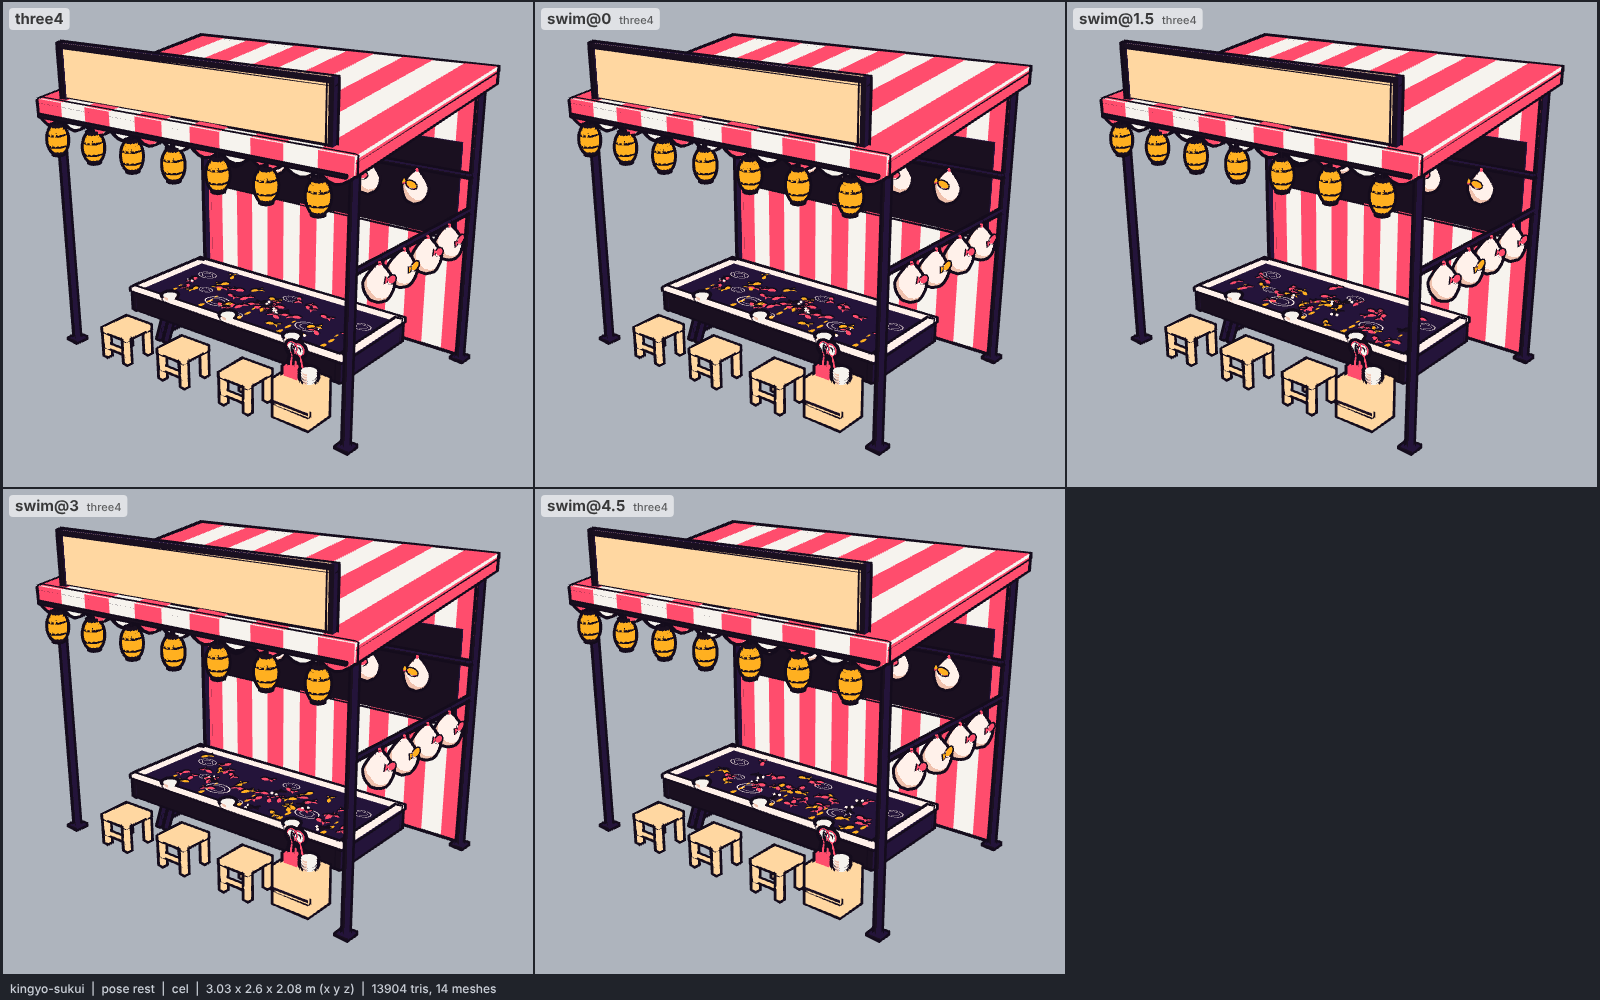
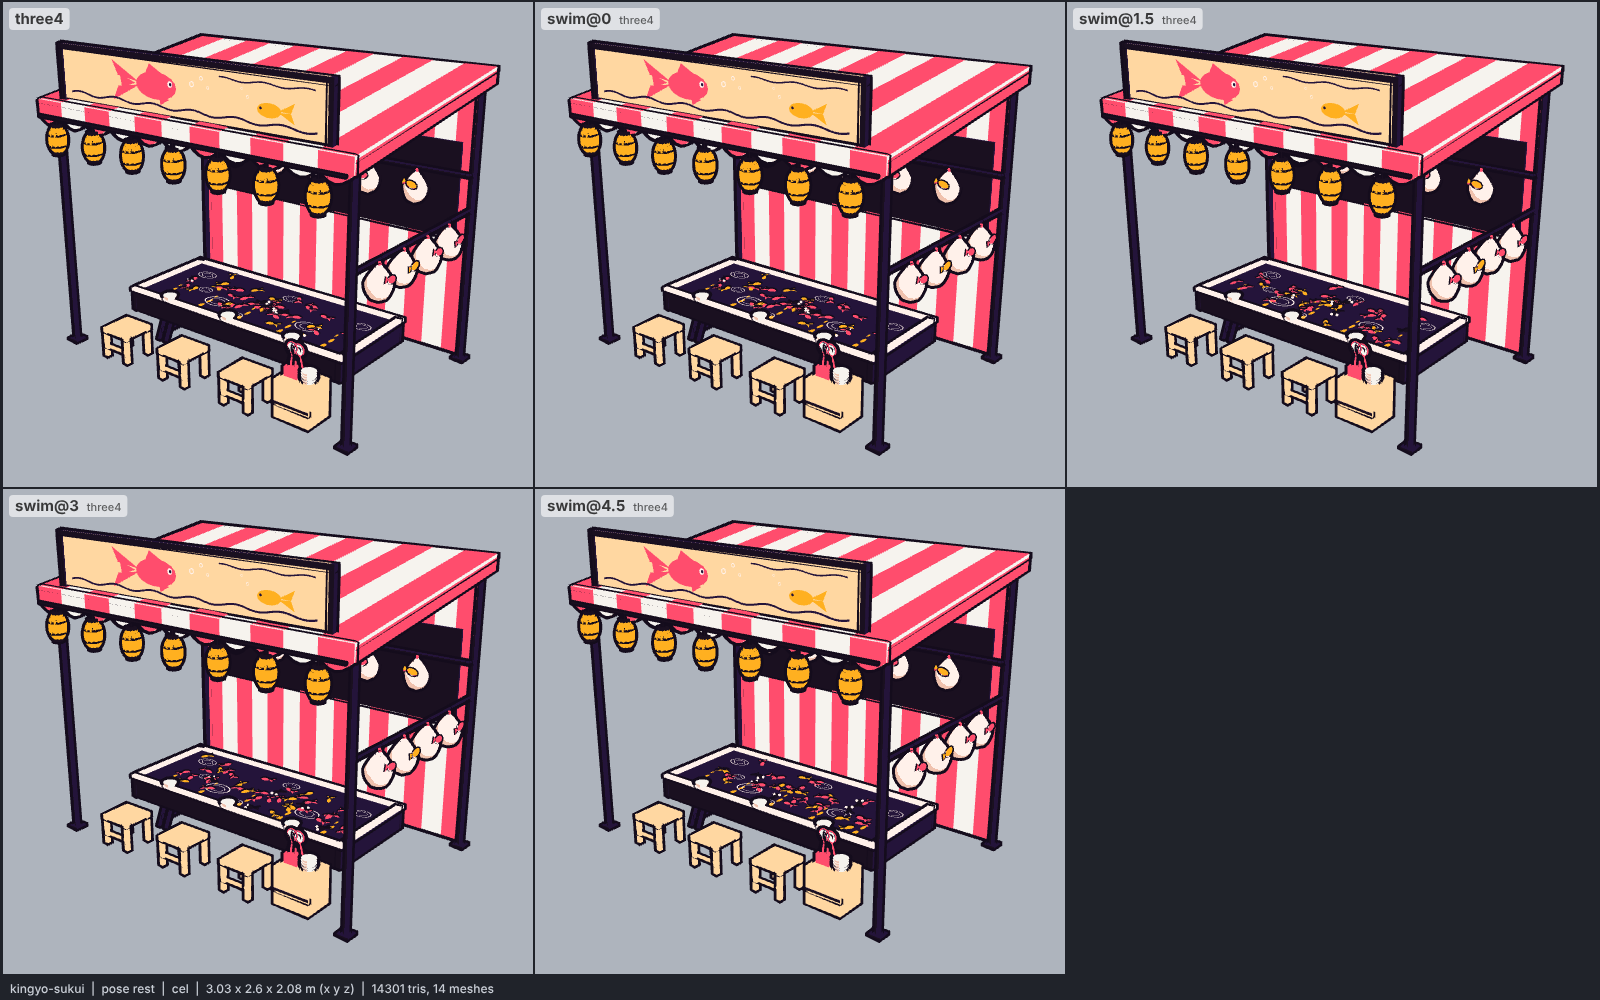
models: kingyo-sukui, paint the top board with a goldfish
A big red goldfish, a small amber one, indigo wave strokes and pale
bubbles as flat decals merged into existing meshes (14 meshes, 14.3k
triangles at defaults). Renders updated.

Claude-Session: https://claude.ai/code/session_01RarBCdt4E1fNHHaUKaW5GL

diff --git a/models/kingyo-sukui.js b/models/kingyo-sukui.js
@@ -10,7 +10,9 @@
 //   FRAME    four 6-sided steel pipes, the back pair taller, top beams, sloped side beams, trestles under the pool.
 //   CANOPY   one inked white slab sloping forward, red stripe decals 3 mm off its faces (front to back), a scalloped
 //            valance on the front lip and red side drops. The slab's hull draws the outline, so stripe seams never ink.
-//   BOARD    a blank wooden board standing on the front beam above the canopy lip (no lettering, by design).
+//   BOARD    a wooden board standing on the front beam above the canopy lip, painted with flat decals merged into
+//            existing meshes: a big red goldfish, a small amber one, indigo wave strokes and pale bubbles. No lettering
+//            (skill rule: no logos, badges or lettering); the fish carries the trade at hero size.
 //   LANTERNS seven lit chochin on a cord under the valance: practical paper at threshold -1 (one flat glow tone, the
 //            night festival), black caps, two dark rib rings.
 //   POOL     a long, shallow tub on trestles, low so customers reach it from the stools: indigo walls (festival has no
@@ -34,14 +36,14 @@
 //   top); fish is the pool's goldfish count, 4..60 (every 8th black, every 3rd amber, the rest red).
 // Clips: swim (6 s): each fish runs its own closed Lissajous loop round the pool with integer frequencies and a periodic
 //   time warp, so it darts and coasts, its tail beating; the bags sway on their ties. t = 6 equals t = 0 exactly.
-// Budget: 13.9k triangles at the defaults (fish 60: 15.8k), 14 meshes.
+// Budget: 14.3k triangles at the defaults (fish 60: 16.2k), 14 meshes.
 // Hero note: the lab's hero looks up from ~0.45 m, level with the pool's rim, so the water is edge-on there; the pool's
 //   fish read from three4/top and any camera above ~1 m. The bags carry the goldfish to the hero.
 // Colours (festival), base / shade:
 //   canopy, curtain, bowls, poi paper    sclera #f6f3ee / skin #f0c2ae
 //   stripes, side drops, poi, ties       accent #ff4d6d / sky #24143a
 //   pipes, trestles, pool, bag board     sky #24143a / hair #1a1020 (above ink)
-//   sign board, stools, crate            moon #ffd7a1 / skin #f0c2ae
+//   board, stools, crate                  moon #ffd7a1 / skin #f0c2ae
 //   lanterns (lit)                       practical #ffb020 flat
 //   caps, cord, ribs, black fish         hair #1a1020 flat
 //   rim, water bags                      line #fff1ea / skin #f0c2ae
@@ -141,6 +143,7 @@ export function build(THREE, kit, colors = meta.colors, opts = {}) {
   const hash = (i) => { const x = Math.sin(i * 127.1 + 311.7) * 43758.5453; return x - Math.floor(x); };
   const SPH = new THREE.SphereGeometry(1, 10, 6), SPH_S = new THREE.SphereGeometry(1, 8, 5);
   const TAU = Math.PI * 2;
+  const RING_B = new THREE.RingGeometry(0.62, 1, 14, 1);
 
   // ---------- frame ----------
   const AX = 1.5, AZ0 = -0.98, AZ1 = 0.97, AY0 = 2.45, AY1 = 2.15, AT = 0.025; // canopy
@@ -209,6 +212,35 @@ export function build(THREE, kit, colors = meta.colors, opts = {}) {
   box("wood", -1.25, 1.25, AY1 + 0.03, 2.6, BDZ - 0.025, BDZ);
   box("frame", -1.29, 1.29, 2.56, 2.6, BDZ - 0.032, BDZ + 0.007); // dark top cap
   for (const x of [-1.29, 1.25]) box("frame", x, x + 0.04, AY1 + 0.0, 2.56, BDZ - 0.032, BDZ + 0.007); // side posts
+  // painted face (flat decals, no hull): a big red goldfish, a small amber one, indigo waves, pale bubbles
+  const DZ = BDZ + 0.003;
+  const poly = (key, pts, z = DZ) => { // star-shaped polygon in the board plane, fanned from its centroid
+    const cx = pts.reduce((s, q) => s + q[0], 0) / pts.length, cy = pts.reduce((s, q) => s + q[1], 0) / pts.length;
+    for (let k = 0; k < pts.length; k++) { const a = pts[k], b = pts[(k + 1) % pts.length]; tri(key, [cx, cy, z], [a[0], a[1], z], [b[0], b[1], z], [cx, cy, z - 1]); }
+  };
+  const oval = (key, x, y, rx, ry, z = DZ, n = 18) => poly(key, Array.from({ length: n }, (_, k) => [x + rx * Math.cos((TAU * k) / n), y + ry * Math.sin((TAU * k) / n)]), z);
+  const stroke = (key, f, x0, x1, w, n = 40) => { // a band of width w along y = f(x)
+    for (let k = 0; k < n; k++) {
+      const a = x0 + ((x1 - x0) * k) / n, b = x0 + ((x1 - x0) * (k + 1)) / n;
+      quad(key, [a, f(a) - w / 2, DZ], [b, f(b) - w / 2, DZ], [b, f(b) + w / 2, DZ], [a, f(a) + w / 2, DZ], [0, 2.4, DZ - 1]);
+    }
+  };
+  oval("stripe", -0.25, 2.38, 0.2, 0.1); // big fish, facing +x
+  poly("stripe", [[-0.42, 2.39], [-0.7, 2.53], [-0.64, 2.42]]);
+  poly("stripe", [[-0.42, 2.37], [-0.7, 2.23], [-0.64, 2.34]]);
+  poly("stripe", [[-0.46, 2.38], [-0.62, 2.43], [-0.6, 2.33]]);
+  poly("stripe", [[-0.36, 2.45], [-0.17, 2.465], [-0.31, 2.535]]); // dorsal fin
+  poly("stripe", [[-0.22, 2.3], [-0.12, 2.295], [-0.21, 2.245]]); // ventral fin
+  oval("ripple", -0.11, 2.405, 0.024, 0.024, DZ + 0.001, 12);
+  oval("water", -0.105, 2.405, 0.012, 0.012, DZ + 0.002, 10);
+  oval("reflect", 0.78, 2.33, 0.1, 0.05); // small amber fish, facing -x
+  poly("reflect", [[0.86, 2.335], [0.99, 2.4], [0.96, 2.33]]);
+  poly("reflect", [[0.86, 2.325], [0.99, 2.26], [0.96, 2.33]]);
+  oval("water", 0.71, 2.34, 0.01, 0.01, DZ + 0.001, 10);
+  for (const [x, y, r] of [[0.1, 2.43, 0.022], [0.19, 2.48, 0.016], [0.25, 2.42, 0.012], [0.6, 2.4, 0.012], [0.55, 2.45, 0.009]])
+    add("ripple", RING_B, [x, y, DZ + 0.001], [0, 0, 0], [r, r, 1]);
+  stroke("water", (x) => 2.235 + 0.014 * Math.sin(x * 16), -1.17, 1.17, 0.014, 60);
+  stroke("water", (x) => 2.5 + 0.01 * Math.sin(x * 18 + 1), 0.35, 1.15, 0.01, 24);
 
   // ---------- lanterns (lit) ----------
   const LR = 0.075, LH = 0.1, LY = 1.86, LZ = AZ1 + 0.05, LN = 7, LSP = 0.42;
